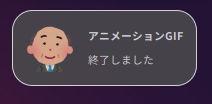
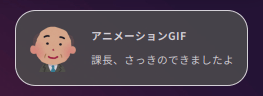
[add] zenn.md

Changed region(s): [[0.0566, 0.0938, 0.9623, 0.9062], [0.1132, 0.25, 0.8774, 0.75], [0.0849, 0.125, 0.1132, 0.1562]]

diff --git a/zenn.md b/zenn.md
@@ -1,0 +1,111 @@
+![bannar](other/bannar.png)
+# MOVIE2GIF
+## これは何？
+動画ファイルからアニメーションgifファイルを作成します。  
+デフォルトでは5fps, 横幅600pxに調整します。  
+  
+**…そこら辺に転がってるって？**  
+  
+- 進行状況をプログレスバーで表示  
+![](other/progress_bar.png)  
+- 終了を音と通知ダイアログでお知らせ  
+![](other/dialog.png)  
+  
+可愛いおじさんが終了をお知らせしてくれます(震え声)  
+再配布禁止なのでおじさんアイコンは個別にダウンロードして下さい…  
+![](other/yurusu.jpg)  
+ありがとうございます。
+# Zenityのprogress dialogってどう書く？
+シェルスクリプトにGUIをつけるにはZenityが簡単ですが、プログレスバーの進捗バーはあまり情報がない印象です。[GNOME HELP](https://help.gnome.org/users/zenity/stable/progress.html.en)によると`echo`を使うと良さそうです。  
+キャンセルボタンは必要ありませんので`--no-cancel`を指定します。  
+```bash
+CWD=$(pwd)
+(
+    FILE=$(zenity --file-selection --file-filter="MOVIE files | *.mp4 | *.avi | *.oga" --title="Select a MOVIE file" --filename="${CWD}/")
+    echo "0"
+    ffmpeg -i "${FILE}" -an -r ${FPS} %04d.png
+    echo "30"
+    mogrify -resize ${WIDTH}x *.png
+    echo "50"
+    pngquant --posterize=$POSTERIZE --quality=$QUALITY *.png
+    echo "70"
+    convert *fs8.png ANIMATION.gif
+    echo "90"
+    rm *.png
+    echo "100"
+) | 
+zenity --progress \
+    --title="Make animation gif" \
+    --text="処理中..." \
+    --percentage=0 \
+    --auto-close \
+    --no-cancel
+```
+# ファイルサイズをなるべく小さく！
+アニメーションgifはサイズが大きいです。  
+通常元の動画ファイルよりもサイズが大きくなります。貼り付けたい場合困ります。そこで以下の対策をしました。
+- 5fps
+- width 600pxリサイズ
+- pngquantによる最適化  
+pngquantによる最適化は[【じーろぐ】減色ツールPngquantの仕組みと最適パラメータを探る](https://zlog.hateblo.jp/entry/2019/05/05/pngquant)を参考にしました。  
+```bash
+  --quality min-max don't save below min, use fewer colors below max (0-100)
+  --speed N         speed/quality trade-off. 1=slow, 3=default, 11=fast & rough
+  --ordered         disable Floyd-Steinberg dithering
+  --floyd           Controls level of dithering (0 = none, 1 = full).
+  --posterize N     output lower-precision color (e.g. for ARGB4444 output)
+  --strip           remove optional metadata (default on Mac)
+```
+pngquantは優秀でちょっとやそっとでは画質が荒くなりません。デフォルトの設定では最低値にしてその分サイズを小さくしています。荒いな、と思ったら設定を上げてみると良いと思います。  
+# Installation
+新しいフォルダを作り、そこにファイルを置いて下さい。  
+![](other/dir.png)  
+`git clone`すれば初めからこの様になります。  
+`make_animation_gif.sh`に実行権限を与えて下さい。
+# Usage
+`make_animation_gif.sh`をダブルクリックするか仮想端末から起動して下さい。
+# Requirements
+- ffmpeg
+- imagemagick
+- pngquant
+- paplay
+- notify-send
+- zenity
+# Setting
+## Parameters
+標準では以下の設定になっています。
+- FPS=5
+  - ffmpeg
+- WIDTH=600
+  - mogrify
+- POSTERIZE=4
+  - pngquant, 削減ビット数最大値
+- QUALITY=0-5
+  - pngquant, 最低0-100  
+  
+もし設定を変えたい場合はソースの以下の部分を変更して下さい。  
+```bash
+# 初期設定 ###########
+FPS=5
+WIDTH=600
+POSTERIZE=4
+QUALITY=0-5
+# ####################
+```
+## Icon
+man_55.pngは[いらすとや様該当ページ](https://3.bp.blogspot.com/-1LXBe86Lrs8/Vf-artgLU6I/AAAAAAAAyJE/i5zNuMDWXWo/s800/icon_business_man13.png)から個別にダウンロードして下さい。
+# Reference
+- [pngquant](https://pngquant.org/)公式
+- [Icon Naming Specification](https://specifications.freedesktop.org/icon-naming-spec/icon-naming-spec-latest.html)
+- [【Zenn】github用のアニメーションgifまわりあれこれ](https://zenn.dev/ykesamaru/articles/52653d248e854d)
+- [【じーろぐ】減色ツールPngquantの仕組みと最適パラメータを探る](https://zlog.hateblo.jp/entry/2019/05/05/pngquant)
+# Author
+yKesamaru
+# License
+MIT license  
+  
+それ以外のライセンス  
+- Positive.ogg: [Nathaniel McCallum](https://launchpad.net/ubuntu/bionic/+source/ubuntu-sounds/+copyright)
+  - Creative Commons Attribution-ShareAlike License
+  - /usr/share/sounds/ubuntu/notifications/  
+# Github

diff --git a/readme.md b/readme.md
@@ -1,4 +1,5 @@
-# MOVIE2ANIMATION_GIF
+![bannar](other/bannar.png)
+# MOVIE2GIF
 ## これは何？
 動画ファイルからアニメーションgifファイルを作成します。  
 デフォルトでは5fps, 横幅600pxに調整します。  
